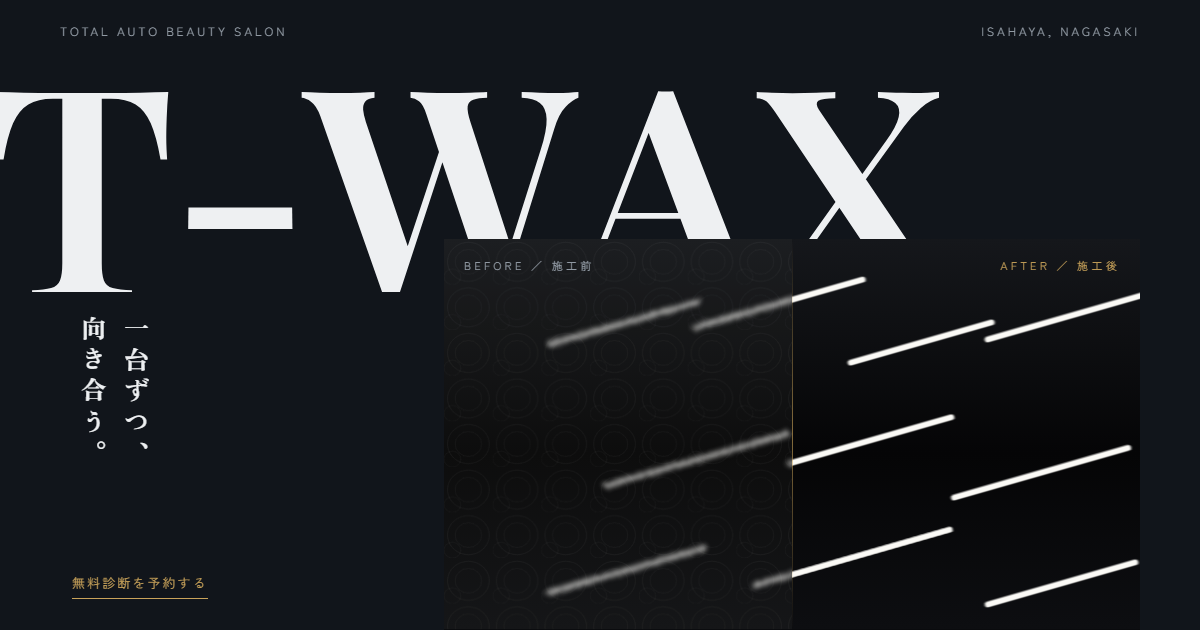
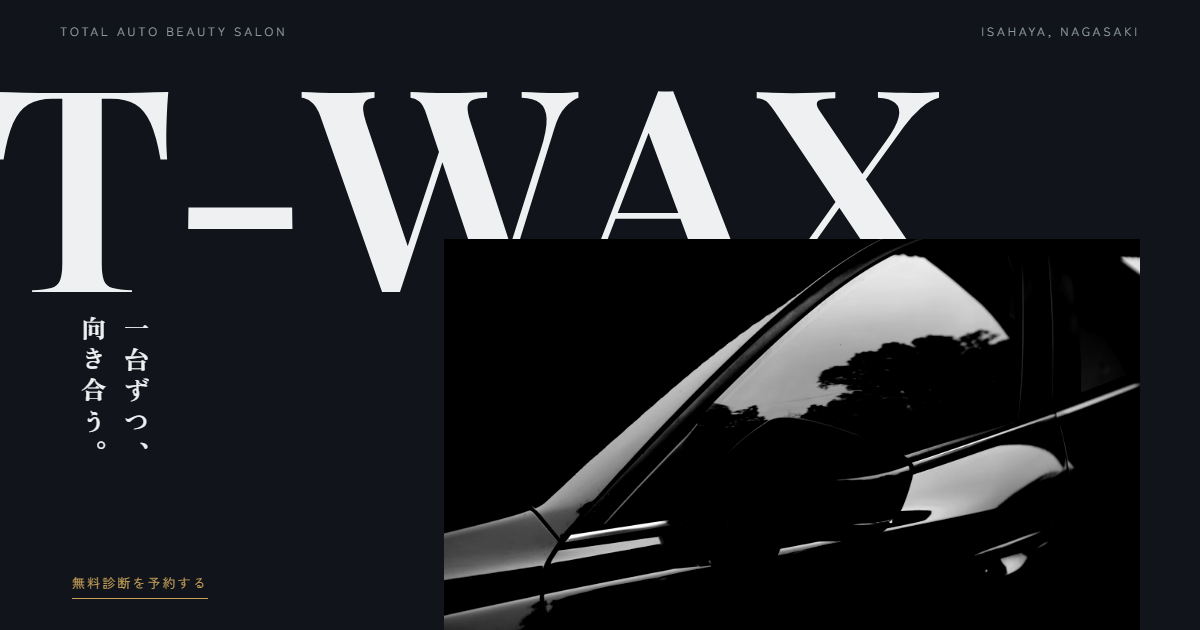
たたき台を更新

diff --git a/s/a971180209f1db85/index.html b/s/a971180209f1db85/index.html
@@ -53,6 +53,7 @@ body{background:var(--bg);color:var(--ink);font-family:"Zen Kaku Gothic New",san
 /* 縦の短い画面（ノートPC・OGP）で、縦書きのコピーが大きな T と重ならないように */
 @media (min-width:761px){.v{top:max(46svh,calc(9svh + 19.5vw + 24px));bottom:calc(5svh + 60px);flex-wrap:wrap}}
 @media (min-width:761px) and (max-height:700px){.v p{display:none}}
+.ph{background:url("https://images.unsplash.com/photo-1722011865035-c32d53dfc543?w=1800&q=75&auto=format&fit=crop") center 40%/cover;filter:grayscale(1) contrast(1.1)}
 /* ---------- 本体 ---------- */
 html{scroll-behavior:smooth}
 .sec{max-width:1120px;margin:0 auto;padding:130px 6vw 110px}
@@ -125,28 +126,7 @@ footer b{display:block;font-family:"Playfair Display",serif;font-size:34px;lette
 <section class="hero">
   <div class="top"><span>TOTAL AUTO BEAUTY SALON</span><span>ISAHAYA, NAGASAKI</span></div>
   <p class="big"><span class="clip"><span>T</span><span>-</span><span>W</span><span>A</span><span>X</span><span>.</span></span></p>
-  <div class="ph" id="stage"><svg id="paint" preserveAspectRatio="none" viewBox="0 0 1000 600" aria-label="黒い塗装面に映る光の線。左は施工前、右は施工後">
-      <defs>
-        <linearGradient id="body" x1="0" y1="0" x2="0" y2="1"><stop offset="0" stop-color="#15171b"/><stop offset=".55" stop-color="#050506"/><stop offset="1" stop-color="#0d0e11"/></linearGradient>
-        <!-- 施工前：細かな洗車傷（渦）とくすみで、光がにじんで乱れる -->
-        <filter id="dull" x="-10%" y="-10%" width="120%" height="120%">
-          <feTurbulence type="fractalNoise" baseFrequency=".9" numOctaves="2" seed="3" result="n"/>
-          <feDisplacementMap in="SourceGraphic" in2="n" scale="16" xChannelSelector="R" yChannelSelector="G" result="d"/>
-          <feGaussianBlur in="d" stdDeviation="3.2"/>
-        </filter>
-        <filter id="glow"><feGaussianBlur stdDeviation="1.2"/></filter>
-        <pattern id="swirl" width="70" height="70" patternUnits="userSpaceOnUse">
-          <circle cx="35" cy="35" r="30" fill="none" stroke="rgba(255,255,255,.05)" stroke-width=".6"/>
-          <circle cx="35" cy="35" r="19" fill="none" stroke="rgba(255,255,255,.04)" stroke-width=".6"/>
-          <circle cx="12" cy="58" r="12" fill="none" stroke="rgba(255,255,255,.04)" stroke-width=".5"/>
-        </pattern>
-        <clipPath id="L"><rect x="0" y="0" width="500" height="600"/></clipPath>
-        <clipPath id="R"><rect x="500" y="0" width="500" height="600"/></clipPath>
-      </defs>
-      <rect width="1000" height="600" fill="url(#body)"/>
-      <g clip-path="url(#L)"><rect width="1000" height="600" fill="url(#swirl)"/><rect width="1000" height="600" fill="rgba(160,150,135,.06)"/><g id="barsL" filter="url(#dull)" opacity=".6"></g><rect width="1000" height="600" fill="url(#swirl)" opacity="1.6"/></g>
-      <g clip-path="url(#R)"><g id="barsR" filter="url(#glow)"></g></g>
-    </svg><span class="lab l">BEFORE ／ 施工前</span><span class="lab r">AFTER ／ 施工後</span><i class="seam"></i><p class="hint">動かすと、光が動きます</p></div>
+  <div class="ph" role="img" aria-label="（仮の写真）暗がりに浮かぶ車体"></div>
   <div class="v"><h1>一台ずつ、<br>向き合う。</h1><p>完全予約制のカーサロン</p></div>
   <a class="cta" href="#diag">無料診断を予約する</a>
 </section>
@@ -235,28 +215,7 @@ footer b{display:block;font-family:"Playfair Display",serif;font-size:34px;lette
   </div>
 </section>
 <footer><b>T-WAX.</b>TOTAL AUTO BEAUTY SALON｜長崎県諫早市高来町</footer>
-<p class="note">Gear Bloom がお作りしたたたき台です。写真は仮のもの、映り込みと断面はイメージです</p>
-<script>
-(() => {
-  const NS = 'http://www.w3.org/2000/svg', L = document.getElementById('barsL'), R = document.getElementById('barsR'), stage = document.getElementById('stage');
-  // 天井の蛍光灯が、ボンネットに斜めに映った光の線（投稿の動画と同じ並び）
-  const bars = [[120, 120, 230], [330, 90, 260], [560, 150, 220], [760, 110, 250], [210, 330, 280], [470, 300, 250], [700, 350, 270], [120, 500, 240], [420, 480, 300], [760, 520, 230]];
-  const mk = g => bars.map(() => { const r = document.createElementNS(NS, 'rect'); r.setAttribute('height', 9); r.setAttribute('rx', 4.5); r.setAttribute('fill', '#fbfaf6'); g.appendChild(r); return r; });
-  const bl = mk(L), br = mk(R);
-  let tx = 0, ty = 0, x = 0, y = 0, t = 0;
-  const place = () => {
-    bars.forEach(([bx, by, w], i) => {
-      const X = bx + x * 60 + Math.sin(t / 2600 + i) * 6, Y = by + y * 30;
-      for (const r of [bl[i], br[i]]) { r.setAttribute('x', X); r.setAttribute('y', Y); r.setAttribute('width', w); r.setAttribute('transform', `rotate(-17 ${X + w / 2} ${Y})`); }
-    });
-  };
-  const move = (cx, cy) => { const b = stage.getBoundingClientRect(); tx = (cx - b.left) / b.width - .5; ty = (cy - b.top) / b.height - .5; };
-  addEventListener('pointermove', e => move(e.clientX, e.clientY));
-  const still = matchMedia('(prefers-reduced-motion: reduce)').matches;
-  const loop = now => { t = now; const idle = now / 4000; if (!still) { x += ((tx || Math.sin(idle) * .35) - x) * .06; y += ((ty || Math.cos(idle * .7) * .2) - y) * .06; } place(); requestAnimationFrame(loop); };
-  requestAnimationFrame(loop);
-})();
-</script>
+<p class="note">Gear Bloom がお作りしたたたき台です。写真は仮のもの、断面はイメージです</p>
 <script>
 (() => {
   document.documentElement.classList.add('js');
